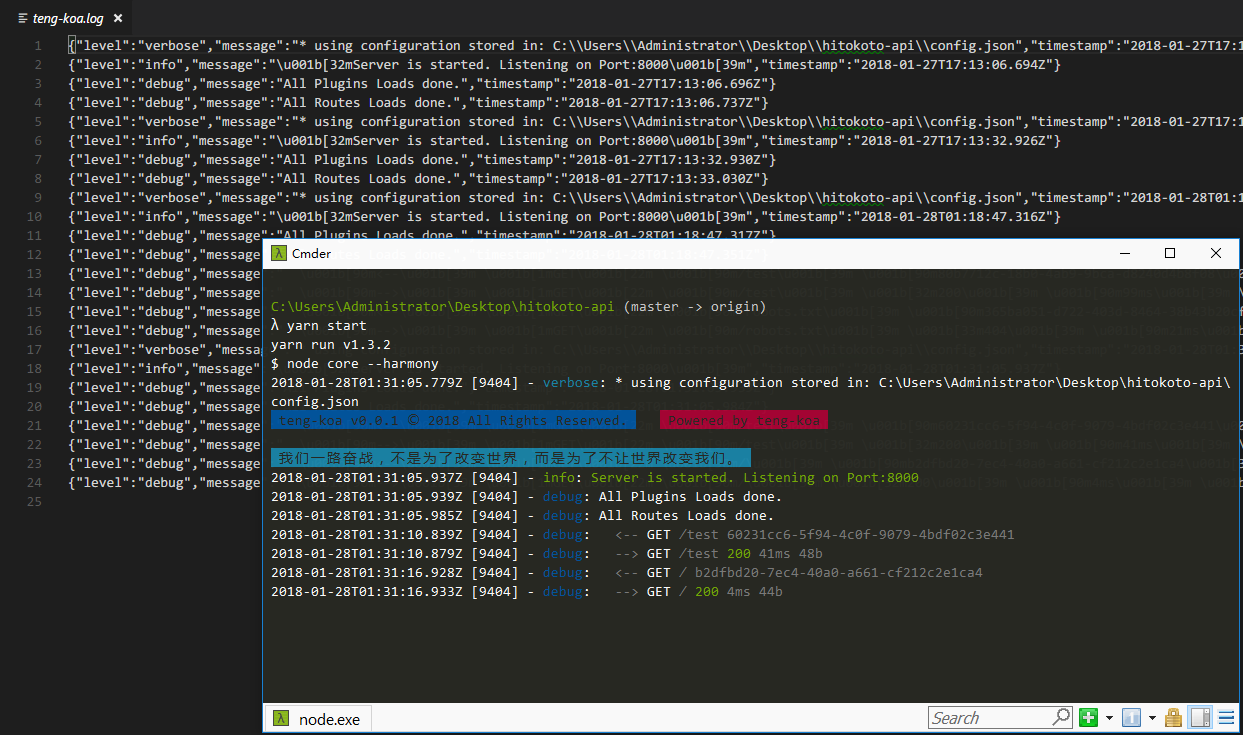
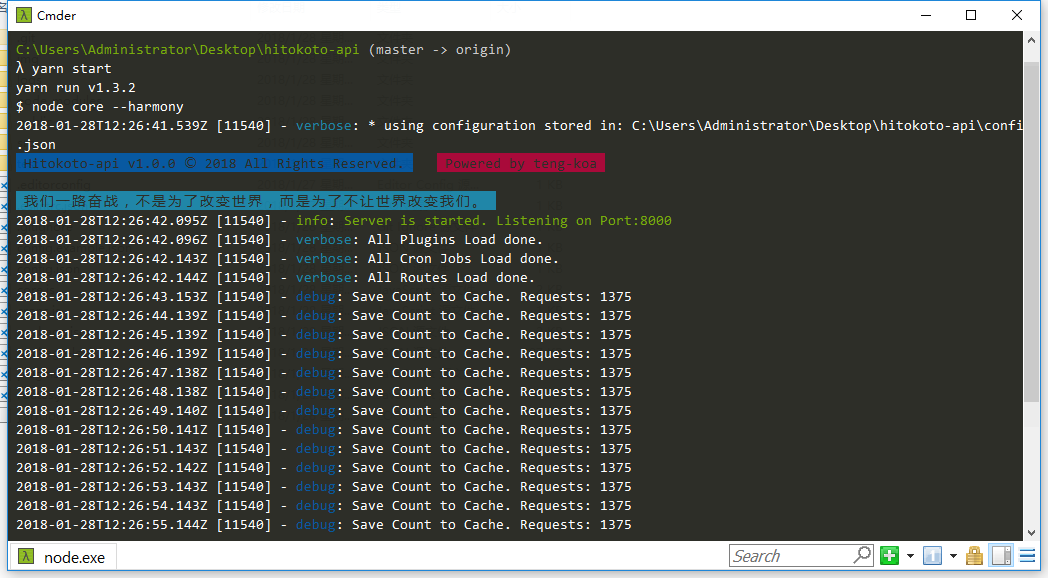
init

diff --git a/src/cron.js b/src/cron.js
@@ -1,0 +1,60 @@
+'use strict'
+// Import Packages
+const winston = require('winston')
+const path = require('path')
+const fs = require('fs')
+const colors = require('colors/safe')
+const CronJob = require('cron').CronJob
+
+// Load Cron
+class cron {
+  static async load () {
+    try {
+      // load crons
+      let crons = await this.autoLoad()
+      const cronMap = require(path.join(__dirname, '../crons.js'))(crons)
+      if (cronMap === true) {
+        // AutoLoad All Crons
+        crons = await this.autoLoad(true)
+        await crons.map((item, index, input) => {
+          // Register CronJob
+          const job = new CronJob(item[0], item[1], item[2], item[3], item[4])
+          job.start()
+        })
+        winston.verbose('All Cron Jobs Load done.')
+      } else {
+        await cronMap.map((item, index, input) => {
+          // Register CronJob
+          const job = new CronJob(item[0], item[1], item[2], item[3], item[4])
+          job.start()
+        })
+        winston.verbose('All Cron Jobs Load done.')
+      }
+    } catch (e) {
+      winston.error(colors.red(e))
+      process.exit(1)
+    }
+  }
+
+  static async autoLoad (isArray) {
+    try {
+      // Load Crons
+      let crons = {}
+      const dir = fs.readdirSync(path.join(__dirname, '../', './src/crons'))
+      if (isArray) {
+        await dir.map((item, index, input) => {
+          crons[index] = module.parent.require(path.join(__dirname, '../', './src/crons/' + item))
+        })
+      } else {
+        await dir.map((item, index, input) => {
+          crons[item.substring(0, item.length - 3)] = module.parent.require(path.join(__dirname, '../', './src/crons/' + item))
+        })
+      }
+      return crons
+    } catch (e) {
+      winston.error(colors.red(e))
+      process.exit(1)
+    }
+  }
+}
+module.exports = cron

diff --git a/src/cache.js b/src/cache.js
@@ -1,28 +1,31 @@
 'use strict'
+// Import Packages
 const nconf = require('nconf')
 const bluebrid = require('bluebird')
 const winston = require('winston')
-const redis = require('redis')
 // Promisify Redis
-bluebrid.promisifyAll(redis.RedisClient.prototype)
-bluebrid.promisifyAll(redis.Multi.prototype)
+const redis = bluebrid.promisifyAll(require('redis'))
 
 class cache {
   static connect () {
-    if (this.redis) {
+    if (this.hasOwnProperty('redis')) {
       return true
     } else {
       // Get Config
       const config = {
         host: nconf.get('redis:host') || '127.0.0.1',
-        port: nconf.get('redis:port') || 3306,
-        password: nconf.get('redis:password') || '',
+        port: nconf.get('redis:port') || 6379,
+        password: nconf.get('redis:password') && nconf.get('redis:password') !== '' ? nconf.get('redis:password') : false,
         db: nconf.get('redis:database') || 0
+      }
+      if (!config.password) {
+        delete config.password
       }
       // Connect Redis
       this.redis = redis.createClient(config)
       this.redis.on('error', err => {
         winston.error(err)
+        process.exit(1)
       })
       return true
     }
@@ -36,7 +39,11 @@ class cache {
 
   static set (key, value, time) {
     this.connect()
-    return this.redis.setAsync('cache:' + key, value, 'EX', time)
+    if (time) {
+      return this.redis.setAsync('cache:' + key, value, 'EX', time)
+    } else {
+      return this.redis.setAsync('cache:' + key, value)
+    }
   }
 
   static get (key) {

diff --git a/src/controllers/status.js b/src/controllers/status.js
@@ -1,0 +1,45 @@
+'use strict'
+const path = require('path')
+const cache = require(path.join(__dirname, '../cache'))
+const winston = require('winston')
+async function getRequests () {
+  const requests = await cache.get('requests')
+  return requests
+}
+
+async function getPastMinute () {
+  const ts = parseInt(Date.now().toString().slice(0, 10)) - 60
+  const requests = await cache.get('requests:count:' + ts.toString())
+  return requests
+}
+
+async function getPastHour () {
+  const ts = parseInt(Date.now().toString().slice(0, 10)) - 60 * 60
+  const requests = await cache.get('requests:count:' + ts.toString())
+  return requests
+}
+
+async function getPastDay () {
+  const ts = parseInt(Date.now().toString().slice(0, 10)) - 60 * 60 * 24
+  const requests = await cache.get('requests:count:' + ts.toString())
+  return requests
+}
+
+module.exports = {
+  status: async (ctx, next) => {
+    const now = await getRequests()
+    const pastMinute = await getPastMinute()
+    const pastHour = await getPastHour()
+    const pastDay = await getPastDay()
+    ctx.body = {
+      requests: {
+        all: parseInt(now),
+        pastMinute: parseInt(now) - parseInt(pastMinute),
+        pastHour: parseInt(now) - parseInt(pastHour),
+        pastDay: parseInt(now) - parseInt(pastDay)
+      },
+      now: new Date(Date.now()).toString(),
+      ts: Date.now()
+    }
+  }
+}

diff --git a/src/crons/countRequests.js b/src/crons/countRequests.js
@@ -1,0 +1,37 @@
+'use strict'
+// Import Packages
+const winston = require('winston')
+const path = require('path')
+const cache = require(path.join(__dirname, '../cache'))
+
+function saveCount (ts, count) {
+  cache.set('requests:count:' + ts, count, 60 * 60 * 25)
+    .catch(err => {
+      winston.error(err)
+      saveCount(ts, count)
+    })
+}
+
+module.exports = [
+  '* * * * * *', // Cron Config
+  () => {
+    // Do something
+    cache.get('requests')
+      .then(requests => {
+        const request = requests ? parseInt(requests) : 0
+        const ts = Date.now().toString().slice(0, 10)
+        saveCount(ts, request)
+        winston.debug('Save Count to Cache. Requests: ' + request)
+      })
+      .catch(err => {
+        winston.error(err)
+      })
+  },
+  () => {
+    // This function is executed when the job stops
+    winston.error('Count Requests job is stopped. Kill process.')
+    process.exit(1)
+  },
+  true, // Start the job right now,
+  'Asia/Shanghai' // Timezone
+]

diff --git a/core.js b/core.js
@@ -14,6 +14,10 @@ const app = new Koa()
 const preStart = require('./src/prestart')
 preStart.load()
 
+// Load CronJob
+const cron = require('./src/cron')
+cron.load()
+
 // Register Middlewares (Plugins)
 async function registerMiddlewares () {
   try {
@@ -21,7 +25,7 @@ async function registerMiddlewares () {
     await middlewares.map((middleware, index, input) => {
       app.use(middleware)
     })
-    winston.debug('All Plugins Loads done.')
+    winston.verbose('All Plugins Load done.')
   } catch (e) {
     winston.error(e)
     // mail.error(e)
@@ -43,7 +47,7 @@ async function registerRoutes (routes) {
         // mail.error(err)
         process.exit(1)
       })
-    winston.debug('All Routes Loads done.')
+    winston.verbose('All Routes Load done.')
   } catch (e) {
     winston.error(e)
     // mail.error(e)

diff --git a/plugins.js b/plugins.js
@@ -4,6 +4,7 @@ module.exports = [
   // MiddleWares
   require('./src/middlewares/requestId')(),
   require('./src/middlewares/responseHandler')(),
+  require('./src/middlewares/countRequest')(),
 
   // Basic Plugins
   require('koa-json')(),
@@ -16,7 +17,7 @@ module.exports = [
   require('kcors')({
     origin: '*',
     allowMethods: ['GET', 'HEAD', 'PUT', 'POST', 'DELETE', 'PATCH'],
-    exposeHeaders: ['X-Request-Id']
+    exposeHeaders: ['X-Request-Id', 'X-Api-Token'] // Need Api-token
   }),
   require('koa-favicon')(path.join(__dirname, './public/favicon.ico')),
   require('koa-compress')({

diff --git a/src/middlewares/countRequest.js b/src/middlewares/countRequest.js
@@ -1,0 +1,24 @@
+'use strict'
+
+function countRequest () {
+  const path = require('path')
+  const cache = require(path.join(__dirname, '../', 'cache'))
+  const winston = require('winston')
+  return async (ctx, next) => {
+    await next()
+    // Wait Request Done
+    await cache.get('requests')
+      .then(requests => {
+        requests = requests || '0'
+        cache.set('requests', parseInt(requests) + 1)
+          .catch(err => {
+            winston.error(err)
+          })
+      })
+      .catch(err => {
+        winston.error(err)
+      })
+  }
+}
+
+module.exports = countRequest

diff --git a/routes.js b/routes.js
@@ -9,5 +9,6 @@ module.exports = (router, controller) => {
   })
 
   router.get('/test', controller.hello.index)
+  router.get('/status', controller.status.status)
   return router
 }

diff --git a/crons.js b/crons.js
@@ -1,0 +1,8 @@
+// Register Cron Event
+module.exports = (cron) => {
+  // return true
+  return [
+    // Register cron
+    cron.countRequests
+  ]
+}

diff --git a/readme.md b/readme.md
@@ -1,0 +1,9 @@
+# Hitokoto API
+目前该项目是针对 Hitokoto V1 的 PHP 框架的重新实现。
+同时更新了以下功能:
+* API 请求统计
+
+## 开始使用
+1. `cp config.example.json config.json` 并配置好相关信息
+2. `yarn --production`
+3. `yarn start` 
